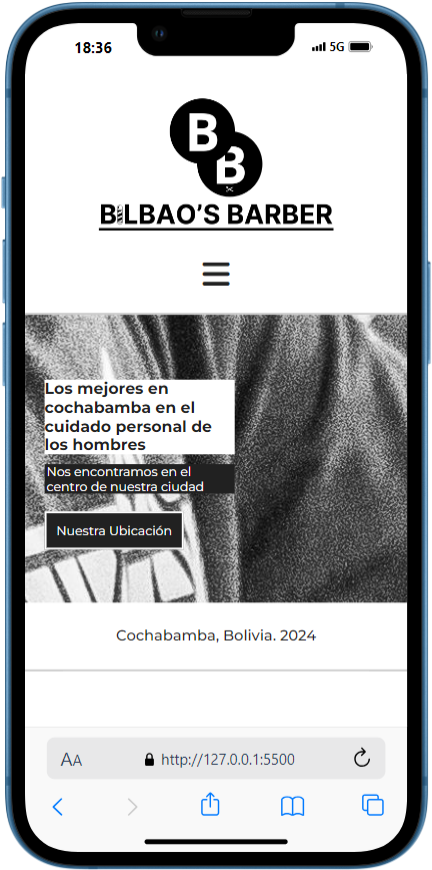
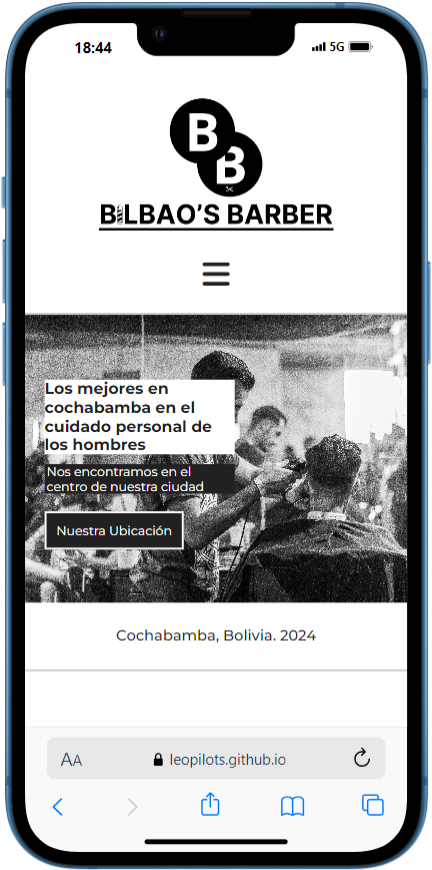
update README.md

Changed region(s): [[0.0602, 0.3414, 0.963, 0.7138], [0.331, 0.869, 0.6921, 0.9], [0.2106, 0.031, 0.2708, 0.0621]]

diff --git a/README.md b/README.md
@@ -1,2 +1,65 @@
-# website-bilbao-sbarber
-Da inicio el desarrollo de la página web para el emprendimiento Bilbao's Barber. (Unidad Productiva)
+# Bilbao's Barber
+
+Bienvenido al repositorio de **Bilbao's Barber**, la página web oficial de nuestra barbería. Este proyecto forma parte de mi proyecto productivo para obtener el título de técnico medio en sistemas informáticos del Colegio San Rafael.
+
+## Descripción del Proyecto
+
+Bilbao's Barber es una página web diseñada para brindar a nuestros clientes una experiencia fluida al conocer nuestros productos y servicios, permitiendo realizar reservas de manera sencilla por whatsapp para adquirir productos o servicios en nuestra barbería.
+
+### Páginas Principales
+
+1. **Index**: Una pequeña presentación sobre Bilbao's Barber y lo que ofrecemos.
+   
+   ![Macbook - Index](https://raw.githubusercontent.com/leopilots/website-bilbao-sbarber/refs/heads/main/images/Macbook-1.png)
+
+2. **Productos**: Aquí nuestros clientes pueden explorar los productos disponibles, que se pueden reservar para recogerlos en el local.
+
+   ![Macbook - Productos](https://raw.githubusercontent.com/leopilots/website-bilbao-sbarber/refs/heads/main/images/Macbook-2.png)
+
+3. **Reservas**: En este apartado, nuestros clientes pueden conocer los servicios disponibles y reservar una cita.
+
+   ![Macbook - Reservas](https://raw.githubusercontent.com/leopilots/website-bilbao-sbarber/refs/heads/main/images/Macbook-3.png)
+
+### Diseño Responsivo
+
+La página está optimizada para verse bien tanto en escritorio como en dispositivos móviles. Aquí algunos ejemplos de cómo se ve la página en diferentes dispositivos:
+
+#### Vista en MacBook:
+
+- Index  
+  ![Macbook - Index](https://raw.githubusercontent.com/leopilots/website-bilbao-sbarber/refs/heads/main/images/Macbook-1.png)
+  
+- Productos  
+  ![Macbook - Productos](https://raw.githubusercontent.com/leopilots/website-bilbao-sbarber/refs/heads/main/images/Macbook-2.png)
+  
+- Reservas  
+  ![Macbook - Reservas](https://raw.githubusercontent.com/leopilots/website-bilbao-sbarber/refs/heads/main/images/Macbook-3.png)
+
+#### Vista en iPhone 13:
+
+- Index  
+  ![iPhone 13 - Index](https://raw.githubusercontent.com/leopilots/website-bilbao-sbarber/refs/heads/main/images/iPhone-13-(iOS-15)-1.png)
+  
+- Productos  
+  ![iPhone 13 - Productos](https://raw.githubusercontent.com/leopilots/website-bilbao-sbarber/refs/heads/main/images/iPhone-13-(iOS-15)-2.png)
+  
+- Reservas  
+  ![iPhone 13 - Reservas](https://raw.githubusercontent.com/leopilots/website-bilbao-sbarber/refs/heads/main/images/iPhone-13-(iOS-15)-3.png)
+
+## Tecnologías Utilizadas
+
+- **HTML5** y **CSS3** para la estructura y el diseño.
+- **JavaScript** para la interactividad y funcionalidades dinámicas.
+- **Responsive Design** para adaptarse a diferentes tamaños de pantalla.
+
+## Instalación y Uso
+
+1. Clona el repositorio:
+   ```bash
+   git clone https://github.com/tu_usuario/bilbao-barber.git
+   ```
+2. Abre el archivo `index.html` en tu navegador.
+
+## Contacto
+
+Si tienes preguntas o sugerencias, no dudes en contactarme a través de mi [perfil de GitHub](https://github.com/leopilots).
